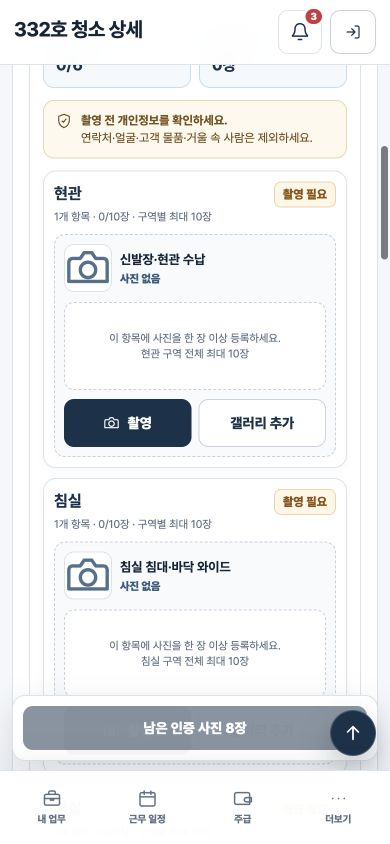
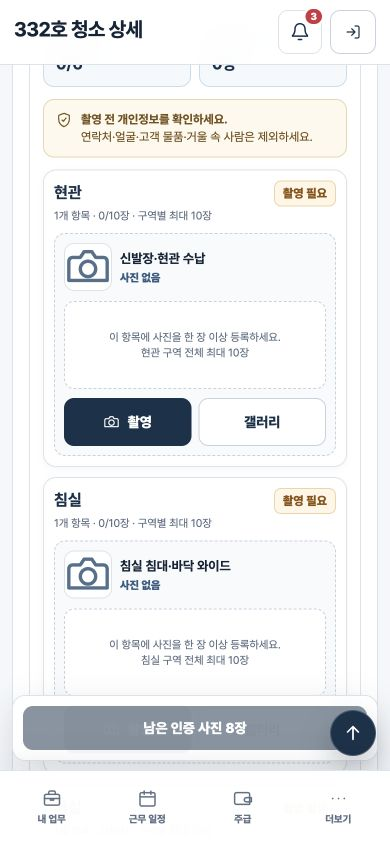
fix: 메이드 갤러리 버튼 문구 정리 (#131)

diff --git a/WIREFRAME/index.html b/WIREFRAME/index.html
@@ -6964,7 +6964,7 @@
       function taskPhotoCollectionMarkup(no,group,upload,attemptId,editable,task) {
         const cameraId=taskPhotoInputId(no,upload.id,'camera'),galleryId=taskPhotoInputId(no,upload.id,'gallery'),items=uploadPhotoCollection(upload),remaining=taskUploadRemainingCapacity(task,upload),busy=items.some(item=>item.status==='uploading'),full=remaining<=0;
         const gallery=items.length?`<div class="task-multi-photo-grid" aria-label="${esc(upload.label)} 사진 ${items.length}장">${items.map((item,index)=>`<article class="task-multi-photo-item ${esc(item.status||'done')}" data-photo-item="${esc(item.id)}"><span class="task-multi-photo-visual">${taskCollectionPhotoVisual(upload,item,index)}</span><span class="task-multi-photo-copy"><strong>${index+1}번째 사진</strong>${item.status==='uploading'?'확인 중':item.status==='failed'?'전송 실패':'등록 완료'}</span>${editable?`<button class="task-multi-photo-remove" type="button" data-action="remove-task-photo-item" data-room="${no}" data-photo="${esc(upload.id)}" data-photo-item="${esc(item.id)}" data-attempt="${esc(attemptId)}" aria-label="${no}호 ${esc(group.zone)} ${esc(upload.label)} ${index+1}번째 사진 삭제" ${item.status==='uploading'?'disabled':''}>${icon('x','icon-sm')}</button>`:''}</article>`).join('')}</div>`:`<div class="task-multi-photo-empty">${upload.required?'이 항목에 사진을 한 장 이상 등록하세요.':'필요한 경우 사진을 추가하세요.'}<br>${esc(group.zone)} 구역 전체 최대 ${MAID_ZONE_PHOTO_LIMIT}장</div>`;
-        const controls=editable?`<div class="task-multi-photo-actions"><button class="btn btn-primary" type="button" data-action="capture-task-photo" data-room="${no}" data-photo="${esc(upload.id)}" data-attempt="${esc(attemptId)}" aria-label="${no}호 ${esc(group.zone)} ${esc(upload.label)} 촬영 추가" ${busy||full?'disabled':''}>${icon('camera','icon-sm')}촬영</button><button class="btn btn-outline" type="button" data-action="choose-task-photo" data-room="${no}" data-photo="${esc(upload.id)}" data-attempt="${esc(attemptId)}" aria-label="${no}호 ${esc(group.zone)} ${esc(upload.label)} 갤러리 사진 추가" ${busy||full?'disabled':''}>갤러리 추가</button></div><input id="${cameraId}" hidden type="file" accept="image/*" capture="environment" data-control="task-photo-file" data-source="camera" data-room="${no}" data-photo="${esc(upload.id)}" data-attempt="${esc(attemptId)}"><input id="${galleryId}" hidden type="file" accept="image/*" multiple data-control="task-photo-file" data-source="gallery" data-room="${no}" data-photo="${esc(upload.id)}" data-attempt="${esc(attemptId)}">`:'';
+        const controls=editable?`<div class="task-multi-photo-actions"><button class="btn btn-primary" type="button" data-action="capture-task-photo" data-room="${no}" data-photo="${esc(upload.id)}" data-attempt="${esc(attemptId)}" aria-label="${no}호 ${esc(group.zone)} ${esc(upload.label)} 촬영 추가" ${busy||full?'disabled':''}>${icon('camera','icon-sm')}촬영</button><button class="btn btn-outline" type="button" data-action="choose-task-photo" data-room="${no}" data-photo="${esc(upload.id)}" data-attempt="${esc(attemptId)}" aria-label="${no}호 ${esc(group.zone)} ${esc(upload.label)} 갤러리 선택" ${busy||full?'disabled':''}>갤러리</button></div><input id="${cameraId}" hidden type="file" accept="image/*" capture="environment" data-control="task-photo-file" data-source="camera" data-room="${no}" data-photo="${esc(upload.id)}" data-attempt="${esc(attemptId)}"><input id="${galleryId}" hidden type="file" accept="image/*" multiple data-control="task-photo-file" data-source="gallery" data-room="${no}" data-photo="${esc(upload.id)}" data-attempt="${esc(attemptId)}">`:'';
         return `<article class="task-zone-photo task-zone-photo-multi ${esc(upload.status||'empty')}" data-photo-slot="${esc(upload.id)}" data-max-photos="${photoUploadLimit(upload)}" data-zone-remaining="${remaining}"><div class="task-zone-photo-main"><span class="task-zone-photo-visual">${icon(items.length?'check':'camera')}</span><div class="task-zone-photo-copy"><strong>${esc(upload.label)}</strong><span class="photo-state" aria-live="polite">${esc(taskUploadStatusText(upload))}</span></div></div>${gallery}${controls}</article>`;
       }
       function taskZoneCardMarkup(no,group,task,editable) {

diff --git a/WIREFRAME/QA.md b/WIREFRAME/QA.md
@@ -1305,7 +1305,7 @@
 - 간편 예약 전체화면을 1440×1000과 390×844에서 실제로 열고 닫았다. 360×800에서도 `dialog` 접근성 역할이 유지되고 닫기 버튼에서 `Escape`를 눌렀을 때 원래 표로 복귀하는지 확인했다.
 - 청소 목차의 `배정 요약·저장`을 눌러 768×900과 1440×1000에서 해당 요약 카드로 스크롤·포커스되는지 확인했다. 고정 목차가 상단 앱 바를 가리지 않도록 데스크톱 50px 데모 바까지 보정했다.
 - 관리자 배정 요약에는 객실 순번·일정·요금만 표시되고 순서 이동 버튼과 보드 내 담당 셀렉트가 0개인지 접근성 스냅샷과 정적 계약으로 확인했다.
-- 메이드 332호 청소 상세 390×844에서 각 구역에 `0/10장 · 구역별 최대 10장`, 각 항목에 촬영·갤러리 추가·개별 삭제 구조가 표시되는지 확인했다. 기존 제출 전 작업 스냅샷도 같은 정책으로 정규화되는지 확인했다.
+- 메이드 332호 청소 상세 390×844에서 각 구역에 `0/10장 · 구역별 최대 10장`, 각 항목에 촬영·갤러리·개별 삭제 구조가 표시되는지 확인했다. 기존 제출 전 작업 스냅샷도 같은 정책으로 정규화되는지 확인했다.
 - 관리자 `주별 지급 이력`과 메이드 `지금까지 주급 내역`에서 큰 송금 안내 박스가 사라지고 `ⓘ`를 눌렀을 때 직접 송금하지 않음·지급 여부 기록·벌점 자동 차감 없음 설명이 툴팁으로 열리는지 확인했다.
 - 변경 화면의 360·390·768·1440px 접근성 트리와 대표 PNG에서 프레임워크 오류 화면, 겹침, 잘린 주 컨트롤이 나타나지 않는지 확인했다.
 
@@ -1331,12 +1331,12 @@
 
 - 관리자 청소 배정에서 `1단계`·`2단계`를 비롯한 숫자 단계 표기를 숨기고 `메이드 주간 근무표`, `동선 고려 랜덤 배정`, `객실별 담당 수정`, `메이드별 배정 요약` 제목만 남겼다.
 - 메이드의 `구역별 사진 촬영` 제목은 `구역별 촬영`, 카메라 버튼의 `사진 촬영`은 `촬영`으로 줄였다.
-- 420px 이하에서 사진 카드 여백과 미리보기 크기를 줄이고 `촬영 / 갤러리 추가` 버튼을 48px 높이 한 줄로 고정했다.
+- 420px 이하에서 사진 카드 여백과 미리보기 크기를 줄이고 `촬영 / 갤러리` 버튼을 48px 높이 한 줄로 고정했다.
 
 ### 실제 확인
 
 - 관리자 청소 관리 1440×900 접근성 트리에서 `1단계`, `2단계`와 그 밖의 숫자 단계 표기가 0개인지 확인했다.
-- 메이드 332호 청소 상세 390×844에서 `구역별 촬영`, `촬영`, `갤러리 추가`가 표시되고 첫 버튼 두 개가 각각 128×48px로 같은 줄에 배치되는지 확인했다.
+- 메이드 332호 청소 상세 390×844에서 `구역별 촬영`, `촬영`, `갤러리`가 표시되고 첫 버튼 두 개가 각각 128×48px로 같은 줄에 배치되는지 확인했다.
 - 360×800과 768×900에서 문서 `scrollWidth`가 viewport 너비와 같고 촬영 버튼이 각각 48px·54px 높이를 유지하는지 확인했다.
 - 페이지 제목·본문 렌더링, 프레임워크 오류 화면 부재, 콘솔 warning/error 0건을 확인했다.
 
